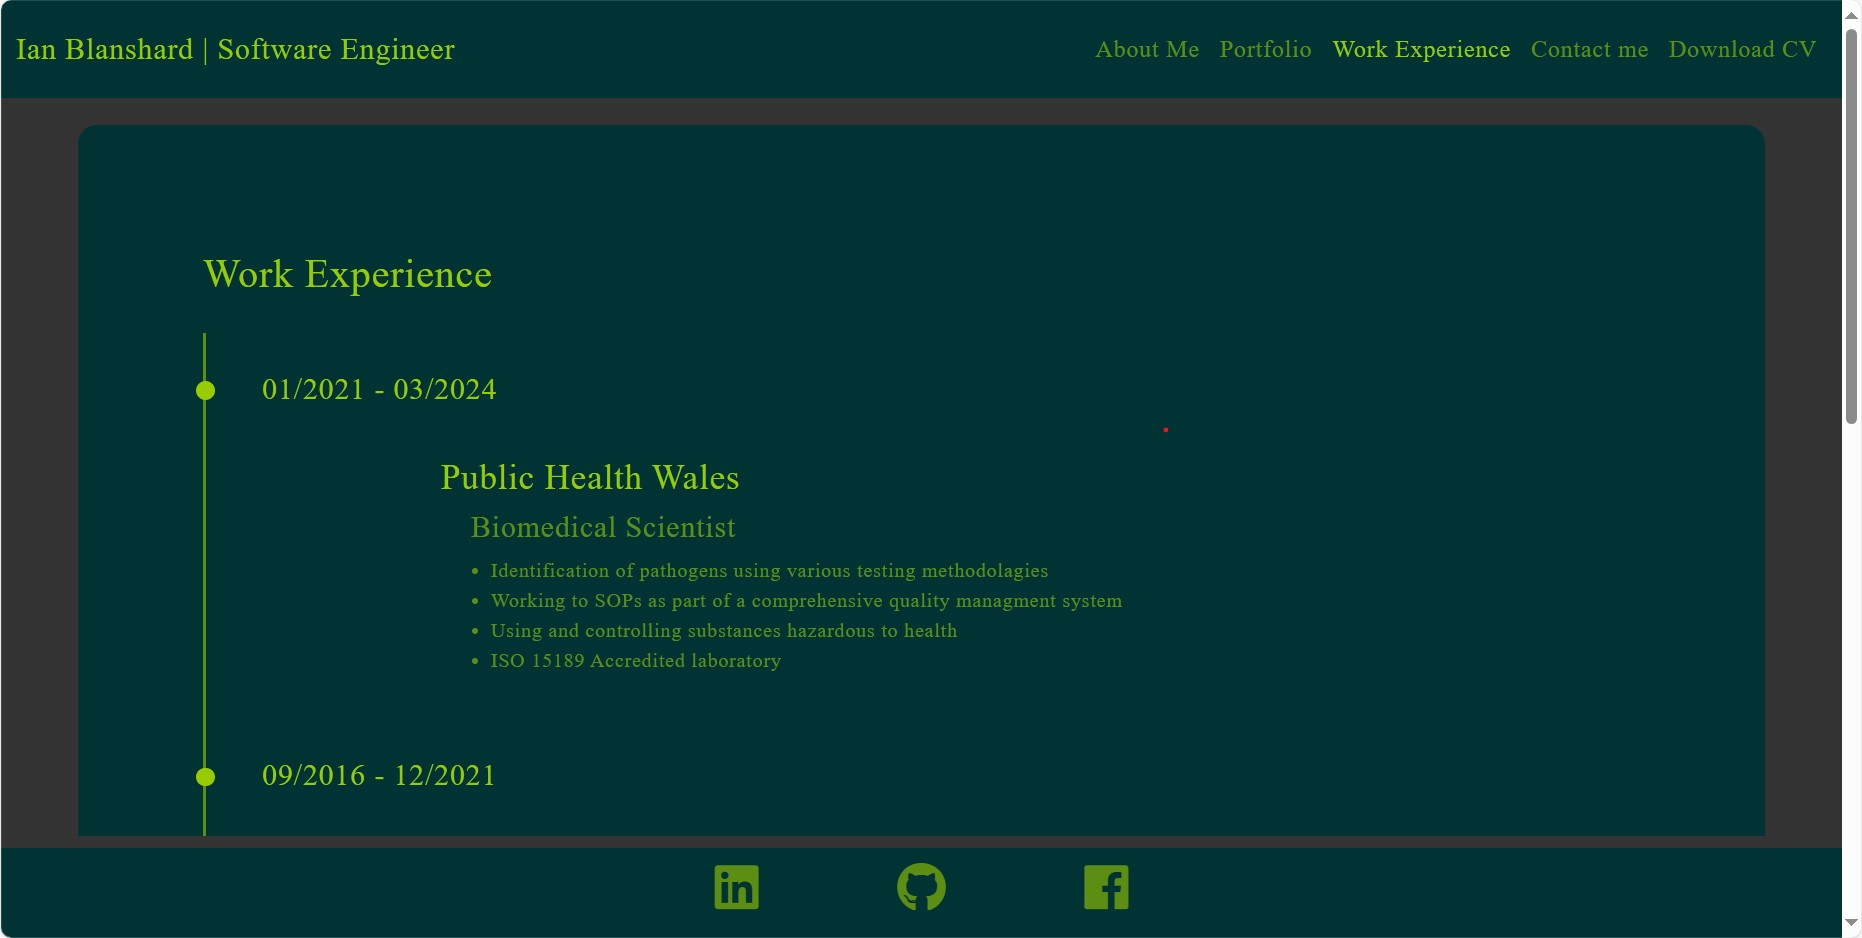
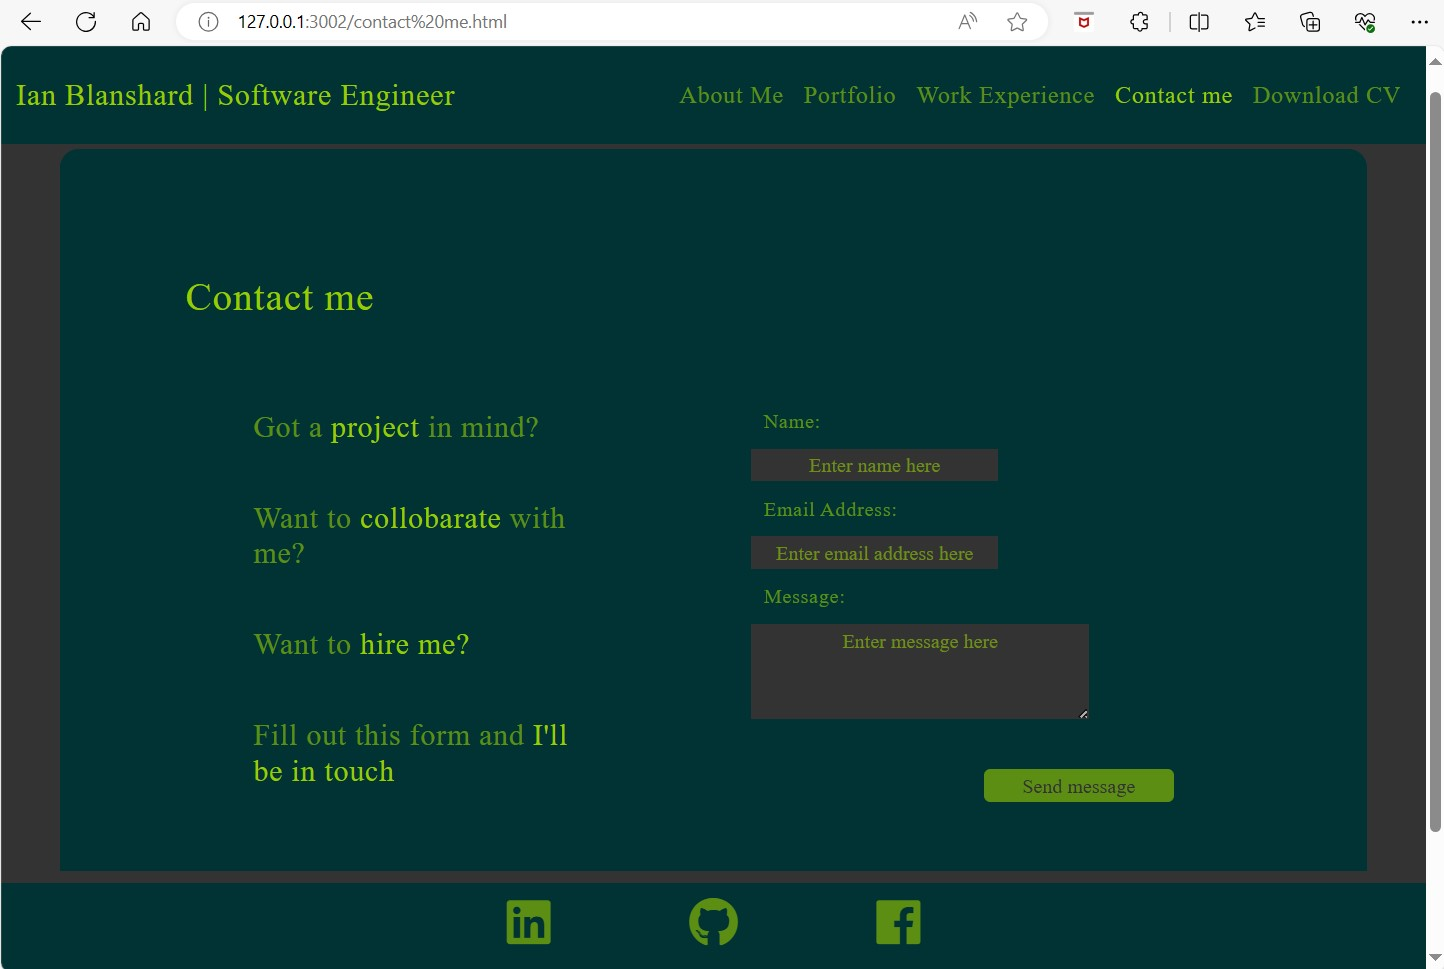
changed colour scheme/font

diff --git a/assets/css/style.css b/assets/css/style.css
@@ -1,71 +1,71 @@
 /*-----------------------Imports------------------------*/
-@import url('https://fonts.googleapis.com/css2?family=Fira:300,400,500,600,700');
+@import url('https://fonts.googleapis.com/css2?family=Lilita+One&display=swap');
 
 /*-----------------------Navbar------------------------*/
 
 .navbar {
-    background-color: #003333;
+    background-color: #a4ac18;
 }
 
 /*--Navbar title--*/
 .navbar-brand {
-    color: rgba(153,204,0,1);
-    font-family: "Fira";
+    color: #000000;
+    font-family: "Lilita One";
     font-size: 150%;
     letter-spacing: 0.04rem;
 }
 .navbar-brand:hover {
-    color: rgba(153,204,0,1);
+    color: #eee6cd;
     
 }
 
 /*--Navbar non current pages--*/
 .nav-link {
-    color: rgba(153,204,0,0.6) ;
-    font-family: "Fira";
+    color: #000000 ;
+    font-family: "Lilita One";
     font-size: 120%;
     letter-spacing: 0.04rem;
 }
 
 .nav-link:hover {
-    color: rgba(153,204,0,1);
+    color: #eee6cd;
 }
 
 /*--Navbar page current--*/
 .active {
-    color: rgba(153,204,0,1) !important ;
+    color: #eee6cd !important ;
 }
 
 
 /*-----------------------content general------------------------*/
 
 body {
-    background-color: #333333;
+    background-color: #626a10;
 }
 
 /*--First content--*/
 .main-content   {
     margin-top: 100px;
     max-height: 620px;
-    font-family: "Fira";
+    font-family: "Lilita One";
     letter-spacing: 0.04rem;
     margin-bottom: 150px;
 }
  
 .main-content h2, h3, h4, h5 {
-    color: rgba(153,204,0,1);
+    color: #000000;
 }
 
 .main-content p {
-    color: rgba(153,204,0,0.6);
+    color: #000000  ;
 }
 
 .content-box {
     padding: 100px;
     margin: 0;
     border-radius: 15px;
-    border-color: #333333;
-    background-color: #003333;
+    border-color: #626a10;
+    background-color: #a4ac18;
 }
 /*-----------------------About Me------------------------*/
 
@@ -76,17 +76,17 @@ body {
 .about-me-links {
     margin-bottom: 20px;
     padding: 0px;
-    background-color: rgba(153,204,0,0.6);
+    background-color: #000000  ;
     border-radius: 5px;
     transition-duration: 0.5s;
 }
 
 .about-me-links:hover {
-    background-color: rgba(153,204,0,1);
+    background-color: #eee6cd;
 }
 
 .about-me-link-text{
-    color: #003333;
+    color: #a4ac18;
     text-decoration: none;
     font-size: 20px;
     font-weight: 500;
@@ -107,18 +107,22 @@ body {
 }
 
 .job-date {
-    color: rgba(153,204,0,1) !important;
+    color: #000000 !important;
+}
+
+.role {
+    color: #eee6cd !important;
 }
 
 .timeline-item {
     padding: 30px 20px 20px;
     position: relative;
     border-left: 3px solid;
-    border-color: rgba(153,204,0,0.6);
+    border-color: #000000  ;
 }
 
 .timeline-item h4, ul {
-    color: rgba(153,204,0,0.6);
+    color: #000000  ;
 }
 
 .timeline-item::before{
@@ -130,7 +134,7 @@ body {
     left: -7.5px;
     border-radius: 15px;
     content: '';
-    background: rgba(153,204,0,1);
+    background: #eee6cd;
 
 }
 
@@ -140,9 +144,9 @@ body {
 /*-----------------------Contact Form------------------------*/
 
 input, textarea, ::placeholder {
-    background-color: #333333;
+    background-color: #626a10;
     border: none;
-    color: rgba(153,204,0,0.6);
+    color: #000000  ;
 }
 
 textarea {
@@ -163,8 +167,8 @@ label {
 }
 
 .contact-me-button {
-    background-color: rgba(153,204,0,0.6);
-    color: #333333;
+    background-color: #000000  ;
+    color: #626a10;
     width: 45%;
     text-decoration: none;
     border: none;
@@ -176,16 +180,16 @@ label {
 }
 
 .contact-me-button:hover {
-    background-color: rgba(153,204,0,1);
+    background-color: #eee6cd;
 }
 
 
-/*-----------------------projects------------------------*/
+/*-----------------------portfolio------------------------*/
 
 .project-box {
     border-radius: 15px;
-    border-color: #333333;
-    background-color: #003333;
+    border-color: #626a10;
+    background-color: #a4ac18;
     margin-top: 20px;
     padding: 25px; 
 }
@@ -201,7 +205,7 @@ label {
 
 
 .key-skill {
-    background-color: rgba(153,204,0,1);
+    background-color: #eee6cd;
     margin: 5px;
     border-radius: 5px;
     padding: 5px;
@@ -212,9 +216,9 @@ label {
 
 .footer {
     height: 72px;
-    background-color: #003333;
+    background-color: #a4ac18;
     margin-top: 20px ;
-    border-top: #333333;
+    border-top: #626a10;
     border-top-width: 20px;
 }
 
@@ -223,7 +227,7 @@ label {
   top: 10px;
   width: 100%;
   height: 10px; 
-  background-color: #333333; 
+  background-color: #626a10; 
   z-index: 1; 
 }
 
@@ -240,14 +244,14 @@ label {
 }
 
 .icon {
-    color: rgba(153,204,0,0.6);
+    color: #000000  ;
     text-decoration: none;
     transition-duration: 0.5s;
     
 }
 
 .icon:hover {
-    color: rgba(153,204,0,1);
+    color: #eee6cd;
 }
 
 /*-----------------------Effects------------------------------*/
@@ -316,11 +320,11 @@ label {
 /*-----------------------colours------------------------*/
 
 .highlight {
-    color: rgba(153,204,0,1);
+    color: #eee6cd;
 }
 
 .lowlight { 
-    color:rgba(153,204,0,0.6);
+    color:#000000  ;
 }
 
 /*-----------------------spacers------------------------*/

diff --git a/portfolio.html b/portfolio.html
@@ -51,7 +51,7 @@
                 <div class="col-lg-3 col-md-5 col-sm-10 mx-auto project-box">
                   <div class="row">
                     <div class="col-12">
-                      <h4>Side Shooter</h4>
+                      <h2 class="project-title">Side Shooter</h2>
                       <p>A side scrolling shooter game, with difficulty levels, multiple
                         lives and a saving high score.
                       </p>
@@ -75,20 +75,20 @@
                 <div class="col-lg-3 col-md-5 col-sm-10 mx-auto project-box">
                   <div class="row">
                     <div class="col-12">
-                      <h4>Side Shooter</h4>
-                      <p>A side scrolling shooter game, with difficulty levels, multiple
-                        lives and a saving high score.
+                      <h2 class="project-title">Portfolio Website</h2>
+                      <p>An earlier build of a personal website to promote my skills 
+                        in coding, an help to find job roles.
                       </p>
                     </div>
                     <div class="row">
-                      <div class="col-12"><img class="portfolio-image" src="assets/images/side_scroll_img1.jpg"></div>
+                      <div class="col-12"><img class="portfolio-image" src="assets/images/personal_website_img2.jpg"></div>
                       <div class="col-12 text-center">
-                      <span class="key-skill">Python</span>
-                      <span class="key-skill">Pygame</span>
-                      <span class="key-skill">OOP</span>
-                      <span class="key-skill">JSON</span>
+                      <span class="key-skill">HTML5</span>
+                      <span class="key-skill">CSS</span>
+                      <span class="key-skill">Bootstrap</span>
+                      
                       </div>
-                      <div class="col-12"><img class="portfolio-image" src="assets/images/side_scroll_img2.jpg"></div>
+                      <div class="col-12"><img class="portfolio-image" src="assets/images/personal_website_img1.jpg"></div>
                     
                     
                   </div>
@@ -97,7 +97,7 @@
                 <div class="col-lg-3 col-md-5 col-sm-10  mx-auto project-box">
                   <div class="row">
                     <div class="col-12">
-                      <h4>Side Shooter</h4>
+                      <h2 class="project-title">Side Shooter</h2>
                       <p>A side scrolling shooter game, with difficulty levels, multiple
                         lives and a saving high score.
                       </p>

diff --git a/README.md b/README.md
@@ -82,6 +82,8 @@ https://www.youtube.com/watch?v=R3UGK1RhY6I
 
 https://blog.hubspot.com/website/typing-animation-css
 
+https://pokemonpalette.com/
+
 ======
 ## Testing
 
@@ -95,6 +97,8 @@ https://blog.hubspot.com/website/typing-animation-css
  fix portfolio page bug where at certain screen width the images overspill the container
 
  add the fade in animation to the containers on porfolio page
+
+ add links to projects on portfolio page
 
 ======
 ## Deployment
